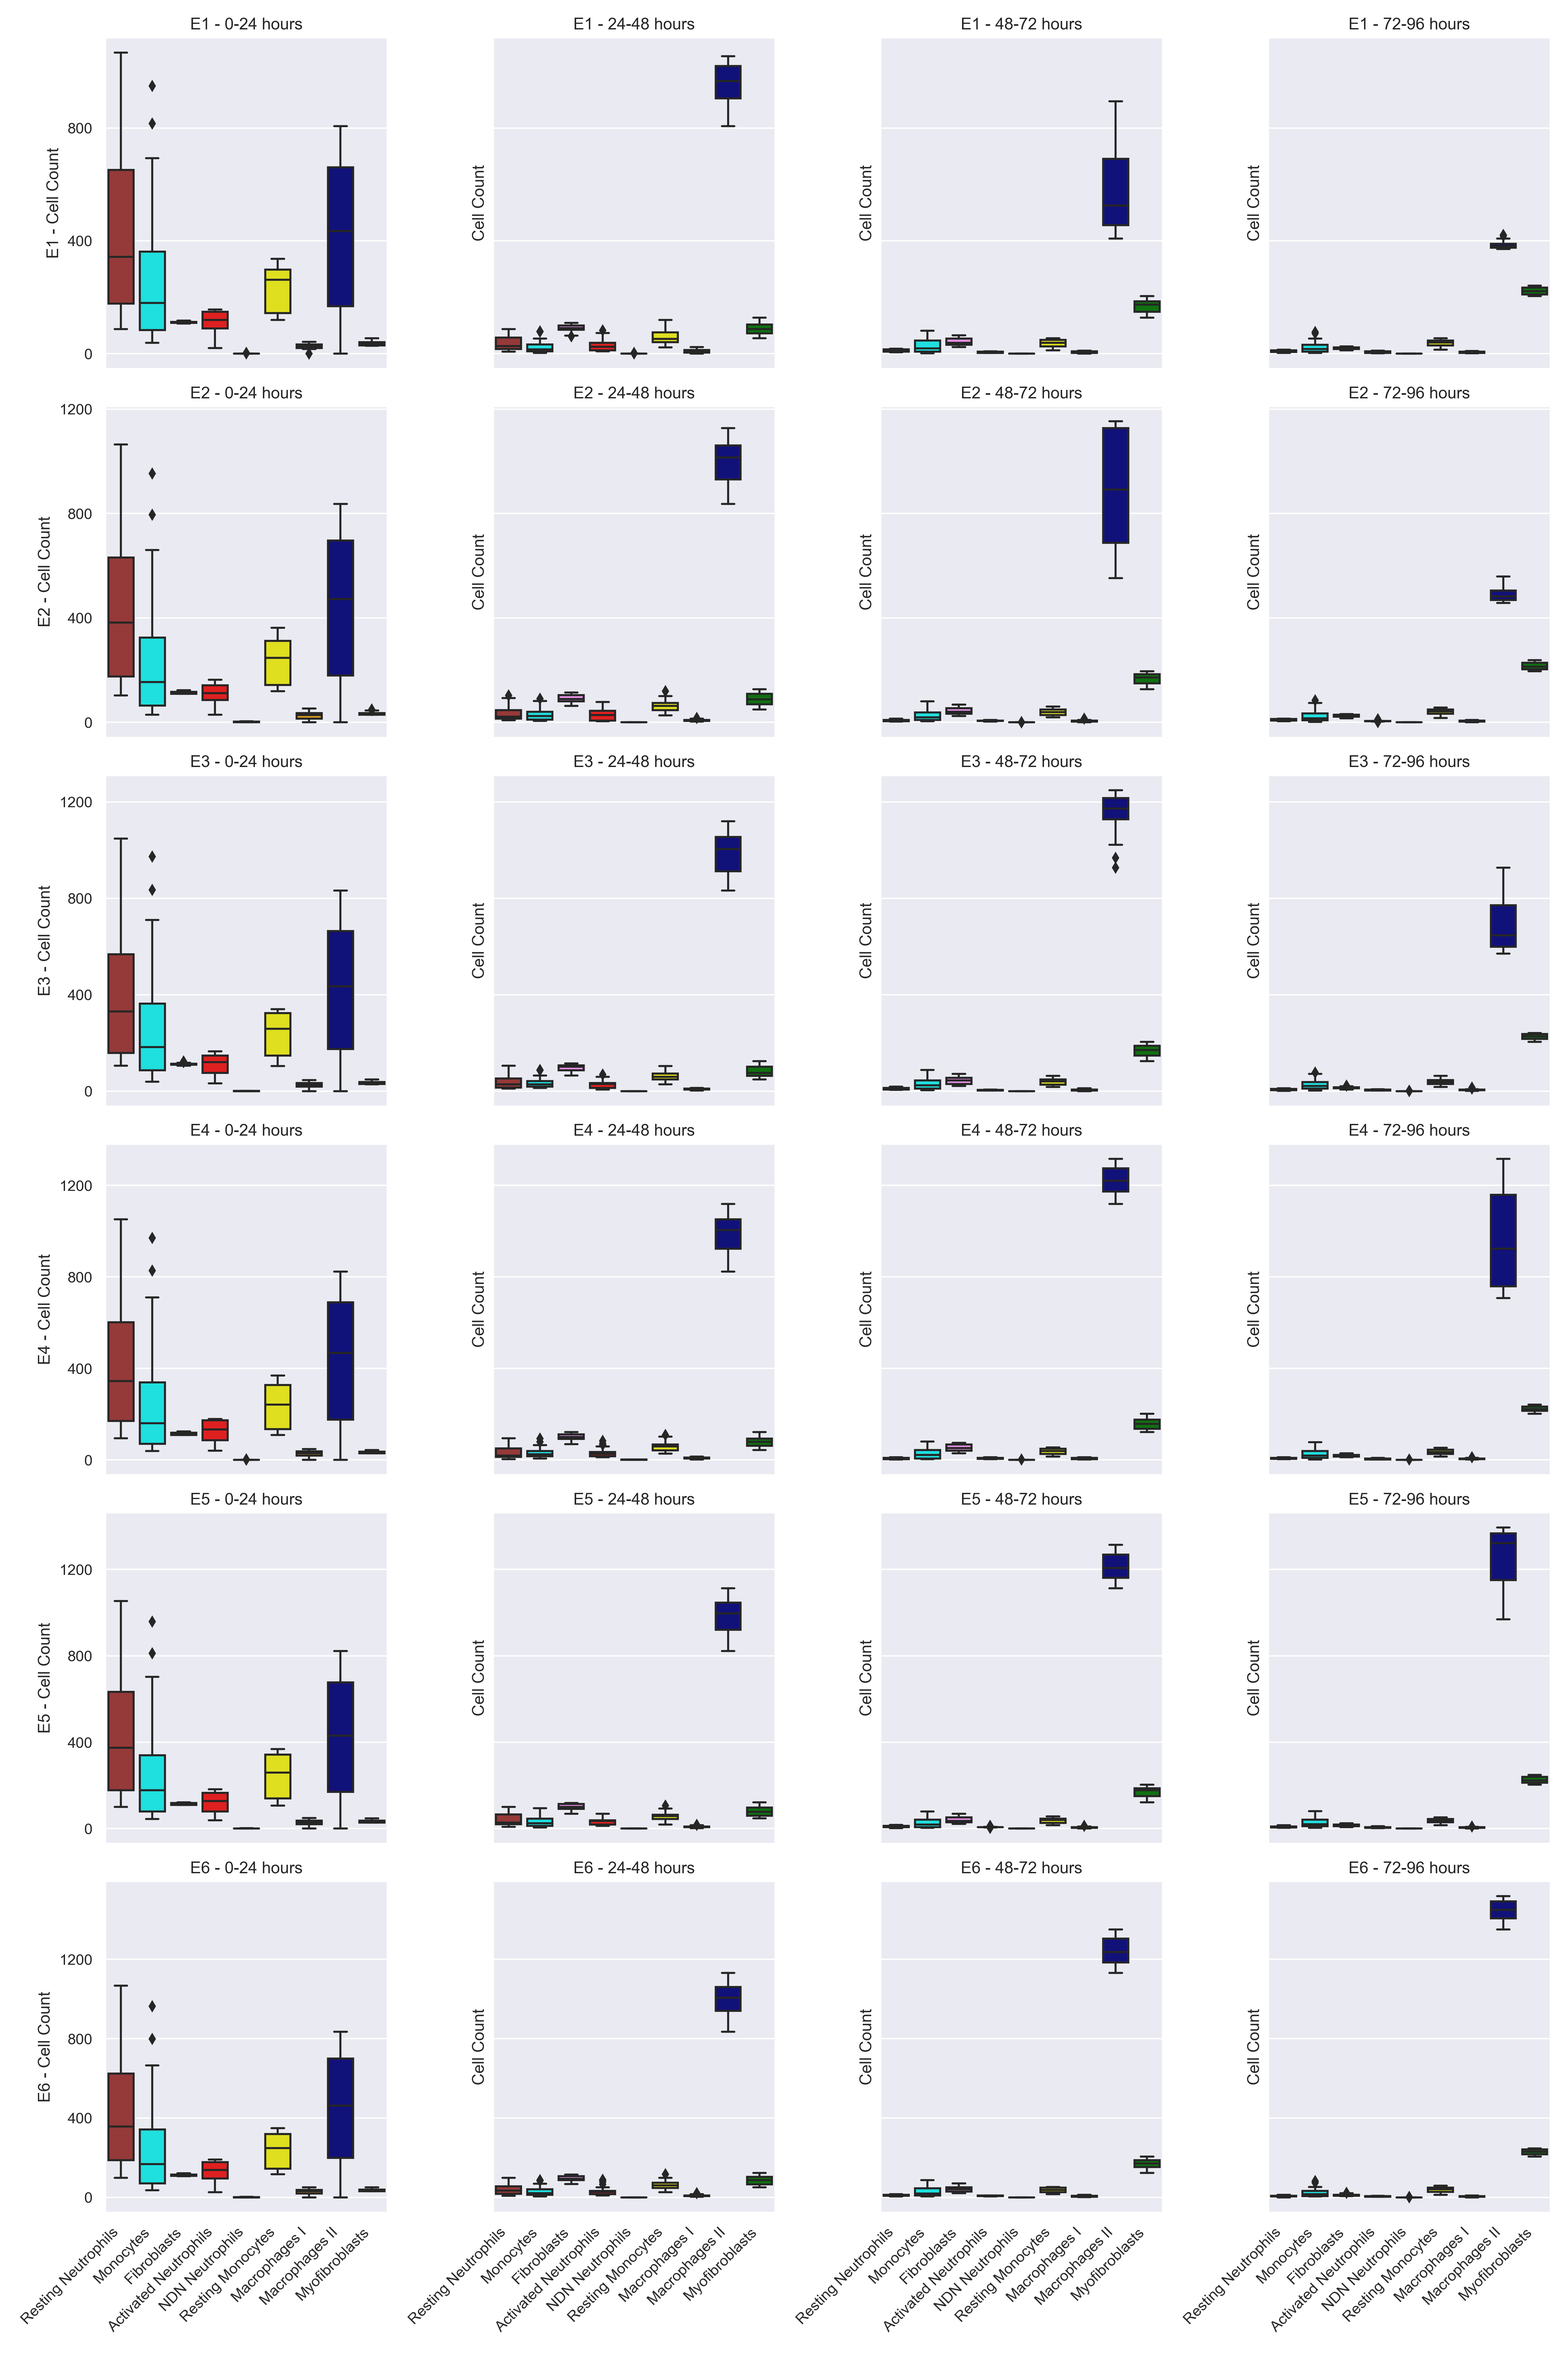
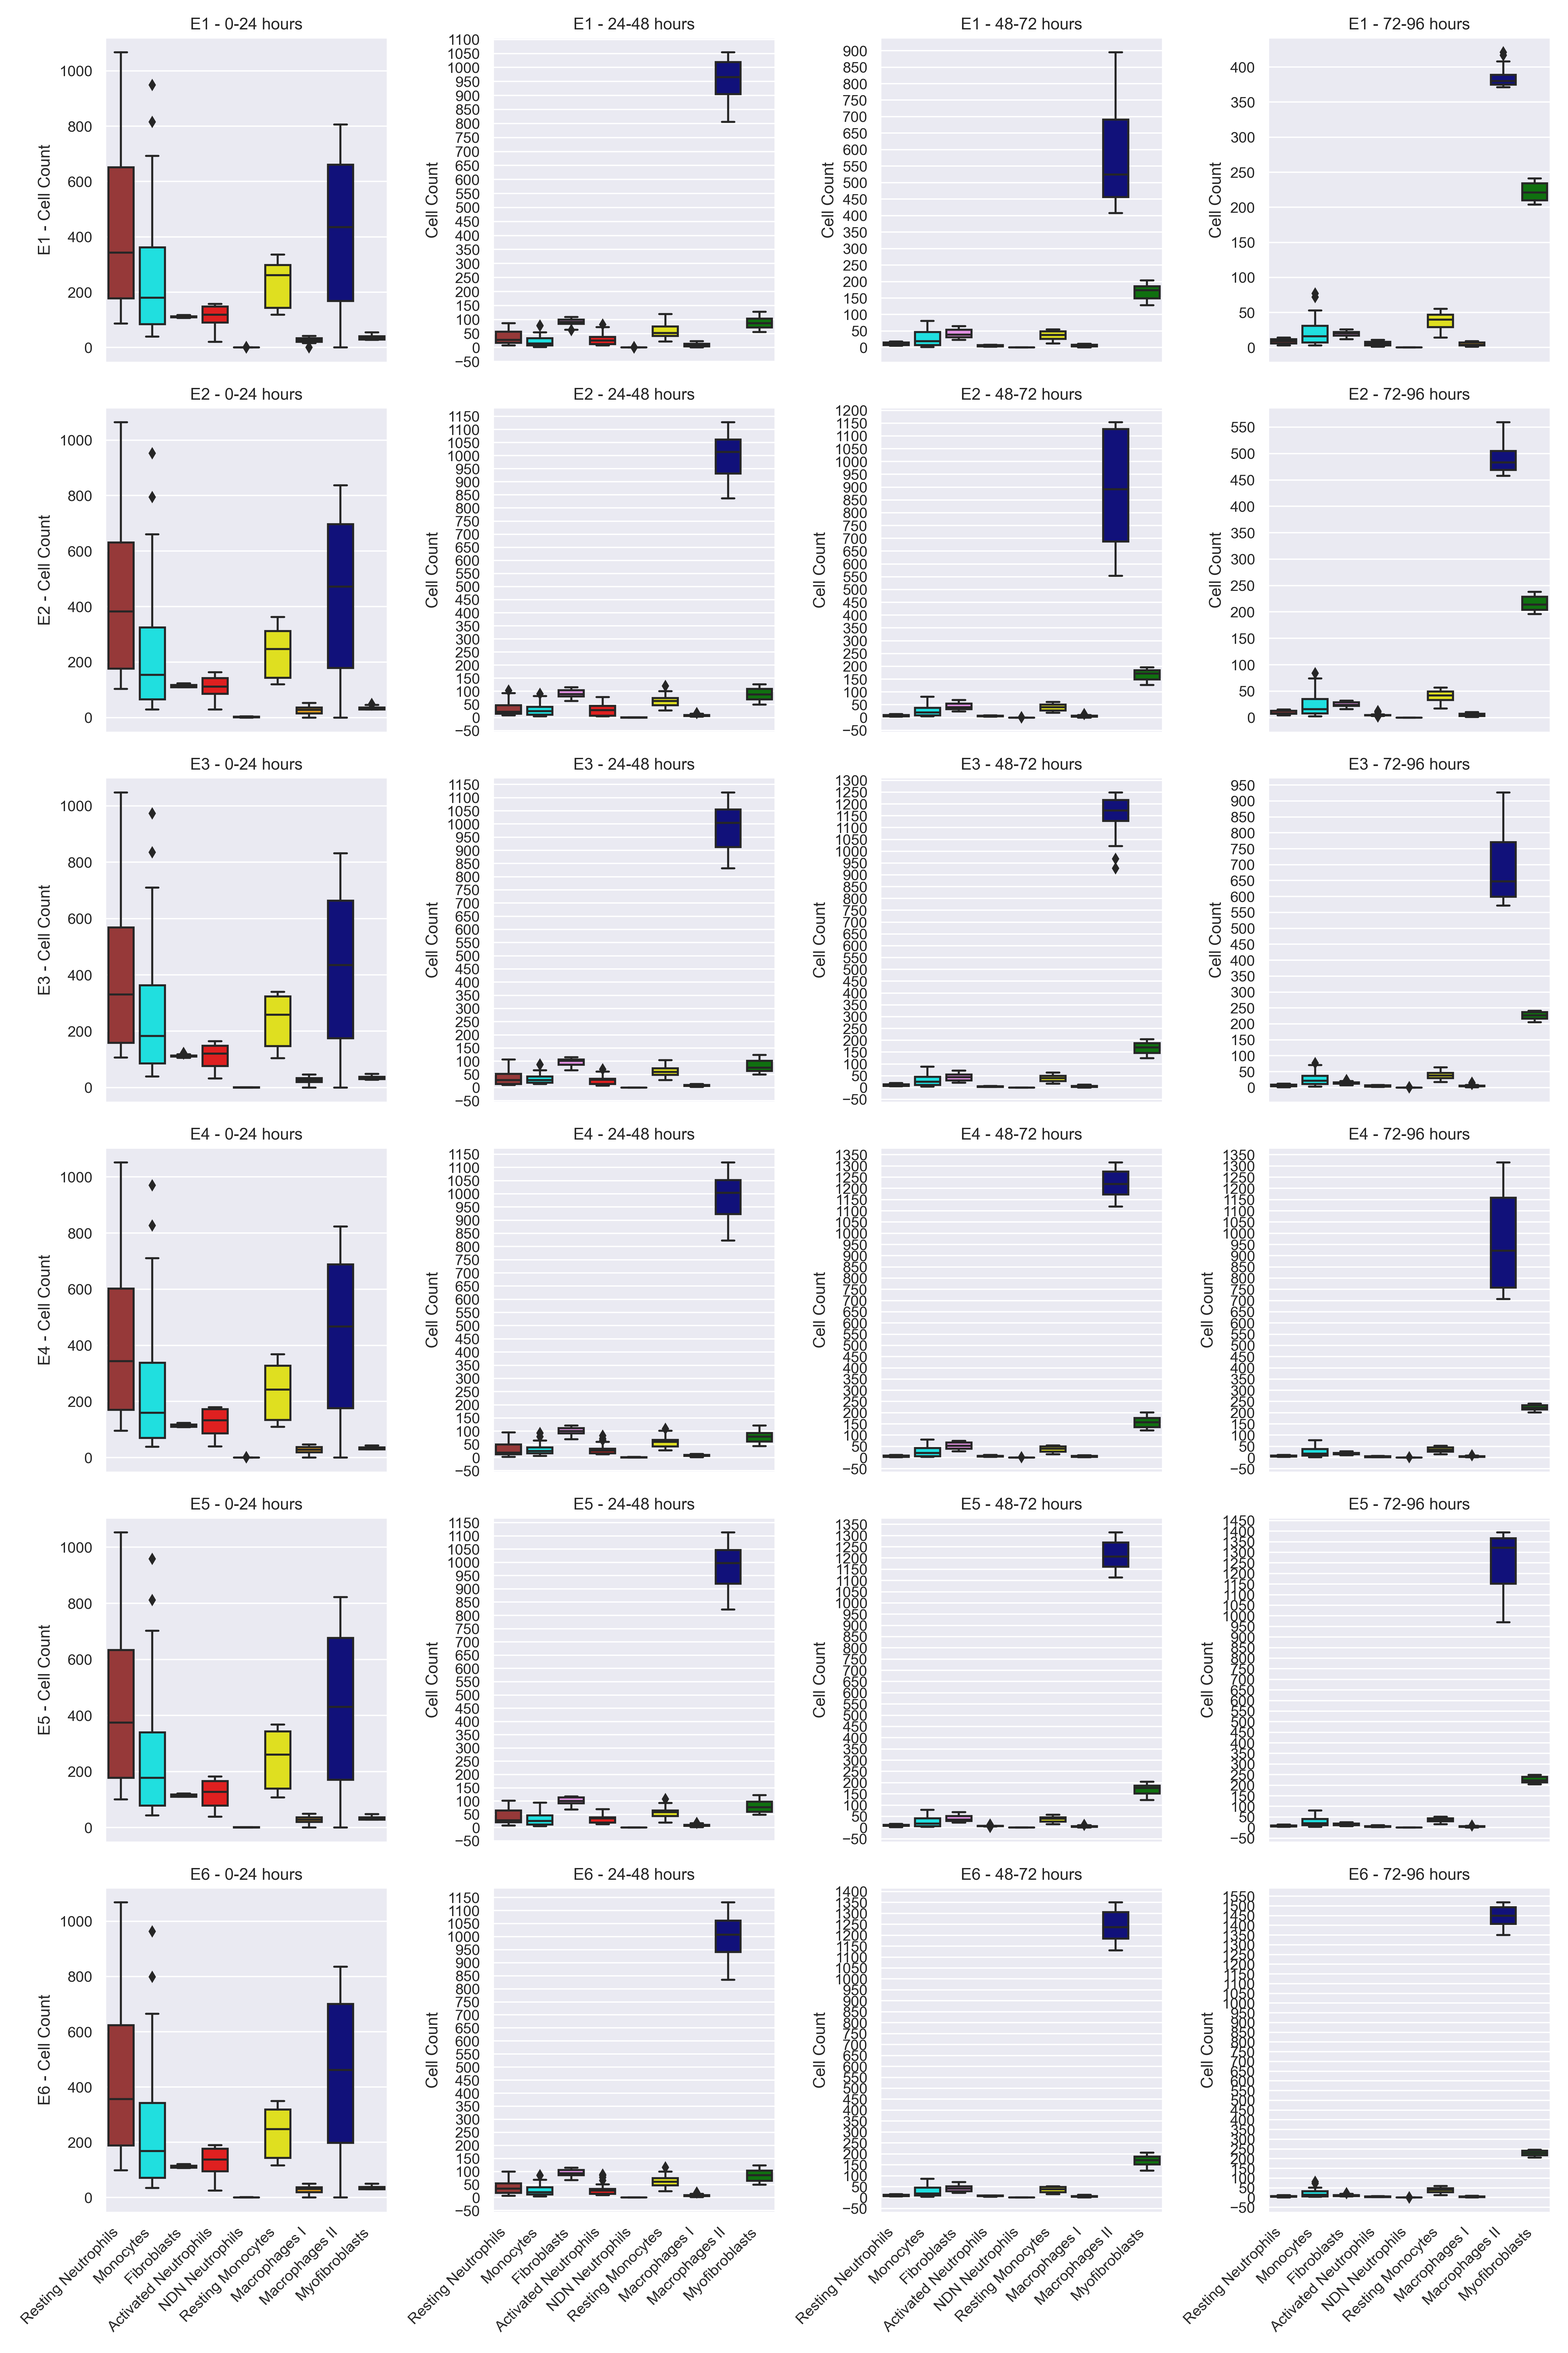
Updating all figures

diff --git a/m2death_experiment1/experiment_global.py b/m2death_experiment1/experiment_global.py
@@ -440,6 +440,8 @@ def stream_plot_cytokines(file, n_exp, exp, show, outputdir):
 
 
 def cell_count_boxplot(file, n_exp, exp, show, outputdir):
+
+    
     names = ['E{}'.format(i) for i in range(1, n_exp + 1)]
     colors = ["brown", "cyan", "violet", "red", "pink", "yellow", "orange", "darkblue", "green"]
     cell_count_labels = ["Resting Neutrophils", "Monocytes", "Fibroblasts",
@@ -450,7 +452,7 @@ def cell_count_boxplot(file, n_exp, exp, show, outputdir):
     num_intervals = len(time_intervals)
 
     # Create a figure with subplots, adjusting size to fit four plots in one row
-    fig, axs = plt.subplots(n_exp, num_intervals, figsize=(16, 4 * n_exp), sharey='row', sharex='col')
+    fig, axs = plt.subplots(n_exp, num_intervals, figsize=(16, 4 * n_exp), sharex='col')
 
     for exp_idx in range(n_exp):
         all_data = pd.DataFrame()  # Store the combined data for each experiment
@@ -480,8 +482,11 @@ def cell_count_boxplot(file, n_exp, exp, show, outputdir):
             axs[exp_idx, interval_idx].set_xlabel('')
             axs[exp_idx, interval_idx].set_ylabel('Cell Count')
 
-            # Set y-axis locator to intervals of 400
-            axs[exp_idx, interval_idx].yaxis.set_major_locator(MultipleLocator(400))
+            # Set y-axis locator and formatter
+            if interval_idx == 0:
+                axs[exp_idx, interval_idx].yaxis.set_major_locator(MultipleLocator(200))
+            else:
+                axs[exp_idx, interval_idx].yaxis.set_major_locator(MultipleLocator(50))
 
         # Set y-label only for the first subplot in each row
         axs[exp_idx, 0].set_ylabel(f"{names[exp_idx]} - Cell Count")
@@ -509,6 +514,7 @@ def cell_count_boxplot(file, n_exp, exp, show, outputdir):
 
 
 # cell_count_boxplot('combi_code/datafiles/', n_exp = 4)
+
 
 
 
@@ -660,10 +666,10 @@ def run_experiments(file, experiment, show, n_exp, calc=None):
     elif experiment is None:
         show = "Off"
         for i in range(n_exp):
-            # cell_count("scan_iteration_{}/{}cellcount.txt".format(i, file), "E{}".format(i + 1), show, output_folder)
-            # cyt_concentrations("scan_iteration_{}/{}mean_concentration.txt".format(i, file), "E{}".format(i + 1), show,
-            #                    output_folder)
-            # print("Experiment {} rendered!".format(i + 1))
+            cell_count("scan_iteration_{}/{}cellcount.txt".format(i, file), "E{}".format(i + 1), show, output_folder)
+            cyt_concentrations("scan_iteration_{}/{}mean_concentration.txt".format(i, file), "E{}".format(i + 1), show,
+                               output_folder)
+            print("Experiment {} rendered!".format(i + 1))
 
             # Data
             data = pd.read_csv("scan_iteration_{}/{}cellcount.txt".format(i, file),
@@ -706,13 +712,18 @@ def run_experiments(file, experiment, show, n_exp, calc=None):
 
         df = pd.DataFrame(raw_data)
 
-        # percent_stacked(df, n_exp, calc, show, outputdir=output_folder)
+        percent_stacked(df, n_exp, calc, show, outputdir=output_folder)
+        experiment = "cytokine bar plot"
         cytokine_barplot(file=file, n_exp=n_exp, exp=experiment, show= show, outputdir=output_folder)
+        experiment = "cell count bar plot"
         cell_count_barplot(file=file, n_exp=n_exp, exp=experiment, show= show, outputdir=output_folder)
+        experiment = "stream plot cytokine"
         stream_plot_cytokines(file=file, n_exp=n_exp, exp=experiment, show= show, outputdir=output_folder)
+        experiment = "cell count boxplot"
         cell_count_boxplot(file=file, n_exp=n_exp, exp=experiment, show= show, outputdir=output_folder)
         print("All Experiments rendered!")
-
+       
+    
     return
 
 run_experiments(file = 'combi_code/datafiles/', experiment= None, show = "off", n_exp = 4, calc ="mean")

diff --git a/endothelial_experiment/experiment_global.py b/endothelial_experiment/experiment_global.py
@@ -440,6 +440,8 @@ def stream_plot_cytokines(file, n_exp, exp, show, outputdir):
 
 
 def cell_count_boxplot(file, n_exp, exp, show, outputdir):
+
+    
     names = ['E{}'.format(i) for i in range(1, n_exp + 1)]
     colors = ["brown", "cyan", "violet", "red", "pink", "yellow", "orange", "darkblue", "green"]
     cell_count_labels = ["Resting Neutrophils", "Monocytes", "Fibroblasts",
@@ -450,7 +452,7 @@ def cell_count_boxplot(file, n_exp, exp, show, outputdir):
     num_intervals = len(time_intervals)
 
     # Create a figure with subplots, adjusting size to fit four plots in one row
-    fig, axs = plt.subplots(n_exp, num_intervals, figsize=(16, 4 * n_exp), sharey='row', sharex='col')
+    fig, axs = plt.subplots(n_exp, num_intervals, figsize=(16, 4 * n_exp), sharex='col')
 
     for exp_idx in range(n_exp):
         all_data = pd.DataFrame()  # Store the combined data for each experiment
@@ -480,8 +482,11 @@ def cell_count_boxplot(file, n_exp, exp, show, outputdir):
             axs[exp_idx, interval_idx].set_xlabel('')
             axs[exp_idx, interval_idx].set_ylabel('Cell Count')
 
-            # Set y-axis locator to intervals of 400
-            axs[exp_idx, interval_idx].yaxis.set_major_locator(MultipleLocator(400))
+            # Set y-axis locator and formatter
+            if interval_idx == 0:
+                axs[exp_idx, interval_idx].yaxis.set_major_locator(MultipleLocator(400))
+            else:
+                axs[exp_idx, interval_idx].yaxis.set_major_locator(MultipleLocator(200))
 
         # Set y-label only for the first subplot in each row
         axs[exp_idx, 0].set_ylabel(f"{names[exp_idx]} - Cell Count")
@@ -509,6 +514,7 @@ def cell_count_boxplot(file, n_exp, exp, show, outputdir):
 
 
 # cell_count_boxplot('combi_code/datafiles/', n_exp = 4)
+
 
 
 

diff --git a/saturation_experiment/experiment_global.py b/saturation_experiment/experiment_global.py
@@ -440,6 +440,8 @@ def stream_plot_cytokines(file, n_exp, exp, show, outputdir):
 
 
 def cell_count_boxplot(file, n_exp, exp, show, outputdir):
+
+    
     names = ['E{}'.format(i) for i in range(1, n_exp + 1)]
     colors = ["brown", "cyan", "violet", "red", "pink", "yellow", "orange", "darkblue", "green"]
     cell_count_labels = ["Resting Neutrophils", "Monocytes", "Fibroblasts",
@@ -450,7 +452,7 @@ def cell_count_boxplot(file, n_exp, exp, show, outputdir):
     num_intervals = len(time_intervals)
 
     # Create a figure with subplots, adjusting size to fit four plots in one row
-    fig, axs = plt.subplots(n_exp, num_intervals, figsize=(16, 4 * n_exp), sharey='row', sharex='col')
+    fig, axs = plt.subplots(n_exp, num_intervals, figsize=(16, 4 * n_exp), sharex='col')
 
     for exp_idx in range(n_exp):
         all_data = pd.DataFrame()  # Store the combined data for each experiment
@@ -480,8 +482,11 @@ def cell_count_boxplot(file, n_exp, exp, show, outputdir):
             axs[exp_idx, interval_idx].set_xlabel('')
             axs[exp_idx, interval_idx].set_ylabel('Cell Count')
 
-            # Set y-axis locator to intervals of 400
-            axs[exp_idx, interval_idx].yaxis.set_major_locator(MultipleLocator(400))
+            # Set y-axis locator and formatter
+            if interval_idx == 0:
+                axs[exp_idx, interval_idx].yaxis.set_major_locator(MultipleLocator(400))
+            else:
+                axs[exp_idx, interval_idx].yaxis.set_major_locator(MultipleLocator(200))
 
         # Set y-label only for the first subplot in each row
         axs[exp_idx, 0].set_ylabel(f"{names[exp_idx]} - Cell Count")
@@ -509,6 +514,7 @@ def cell_count_boxplot(file, n_exp, exp, show, outputdir):
 
 
 # cell_count_boxplot('combi_code/datafiles/', n_exp = 4)
+
 
 
 

diff --git a/m2death_experiment2/experiment_global.py b/m2death_experiment2/experiment_global.py
@@ -440,6 +440,8 @@ def stream_plot_cytokines(file, n_exp, exp, show, outputdir):
 
 
 def cell_count_boxplot(file, n_exp, exp, show, outputdir):
+
+    
     names = ['E{}'.format(i) for i in range(1, n_exp + 1)]
     colors = ["brown", "cyan", "violet", "red", "pink", "yellow", "orange", "darkblue", "green"]
     cell_count_labels = ["Resting Neutrophils", "Monocytes", "Fibroblasts",
@@ -450,7 +452,7 @@ def cell_count_boxplot(file, n_exp, exp, show, outputdir):
     num_intervals = len(time_intervals)
 
     # Create a figure with subplots, adjusting size to fit four plots in one row
-    fig, axs = plt.subplots(n_exp, num_intervals, figsize=(16, 4 * n_exp), sharey='row', sharex='col')
+    fig, axs = plt.subplots(n_exp, num_intervals, figsize=(16, 4 * n_exp), sharex='col')
 
     for exp_idx in range(n_exp):
         all_data = pd.DataFrame()  # Store the combined data for each experiment
@@ -480,8 +482,11 @@ def cell_count_boxplot(file, n_exp, exp, show, outputdir):
             axs[exp_idx, interval_idx].set_xlabel('')
             axs[exp_idx, interval_idx].set_ylabel('Cell Count')
 
-            # Set y-axis locator to intervals of 400
-            axs[exp_idx, interval_idx].yaxis.set_major_locator(MultipleLocator(400))
+            # Set y-axis locator and formatter
+            if interval_idx == 0:
+                axs[exp_idx, interval_idx].yaxis.set_major_locator(MultipleLocator(200))
+            else:
+                axs[exp_idx, interval_idx].yaxis.set_major_locator(MultipleLocator(50))
 
         # Set y-label only for the first subplot in each row
         axs[exp_idx, 0].set_ylabel(f"{names[exp_idx]} - Cell Count")
@@ -509,6 +514,7 @@ def cell_count_boxplot(file, n_exp, exp, show, outputdir):
 
 
 # cell_count_boxplot('combi_code/datafiles/', n_exp = 4)
+
 
 
 
